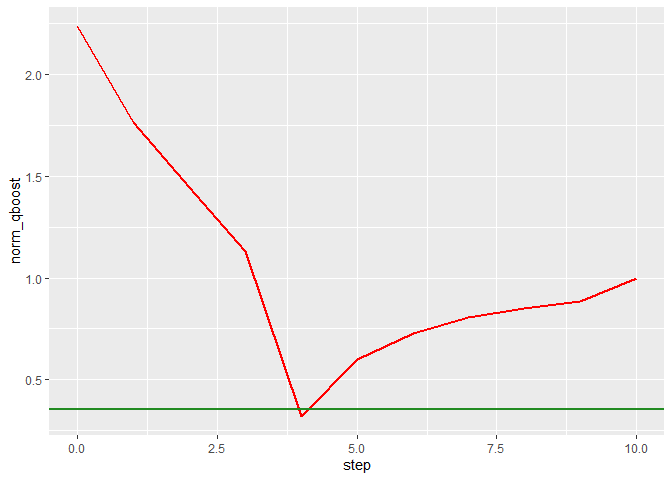
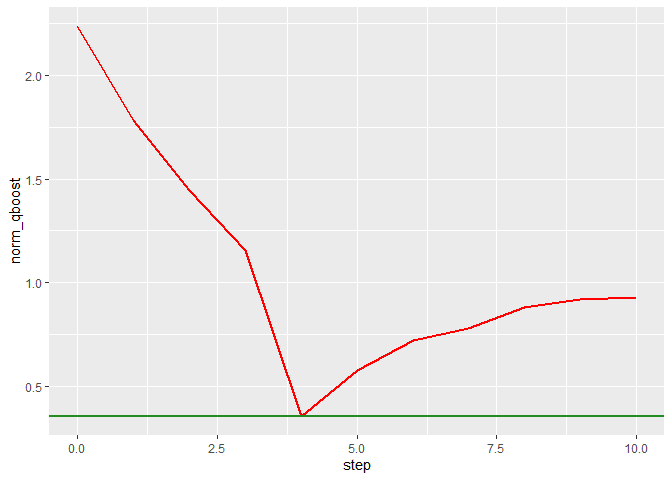
update readme

diff --git a/README.md b/README.md
@@ -55,15 +55,16 @@ Y = cbind(1, X) %*% beta + epsilon
 ```
 
 Next, we use the orthogonal variant of the qboost algorithm (WCGA, by
-setting ) and proceed with for 10 greedy selection steps.
+setting `stepsize = NULL`) and proceed with for 10 greedy selection
+steps.
 
 ``` r
 library(qboost)
 n_steps <- 10; tau <- .5
-model <- qboost(X,Y,tau = tau, m_stop = n_steps , h = 0.1, kernel = "Gaussian",stepsize = NULL)
+model <- qboost(X,Y, tau = tau, m_stop = n_steps, h = 0.1, kernel = "Gaussian", stepsize = NULL)
 # selected covariates
 print(model$selection_path)
-#>  [1]   3   4   1   2  86  17 452  60 155 324
+#>  [1]   3   4   1   2  86 155 127  30 324 235
 ```
 
 To compare the performance to the oracle model, we apply the conquer
